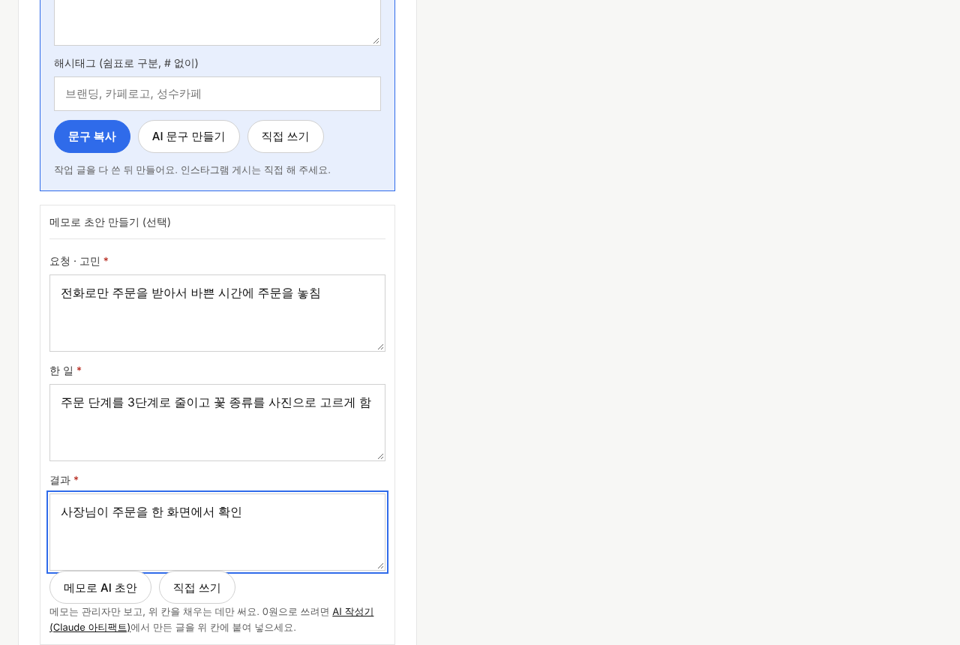
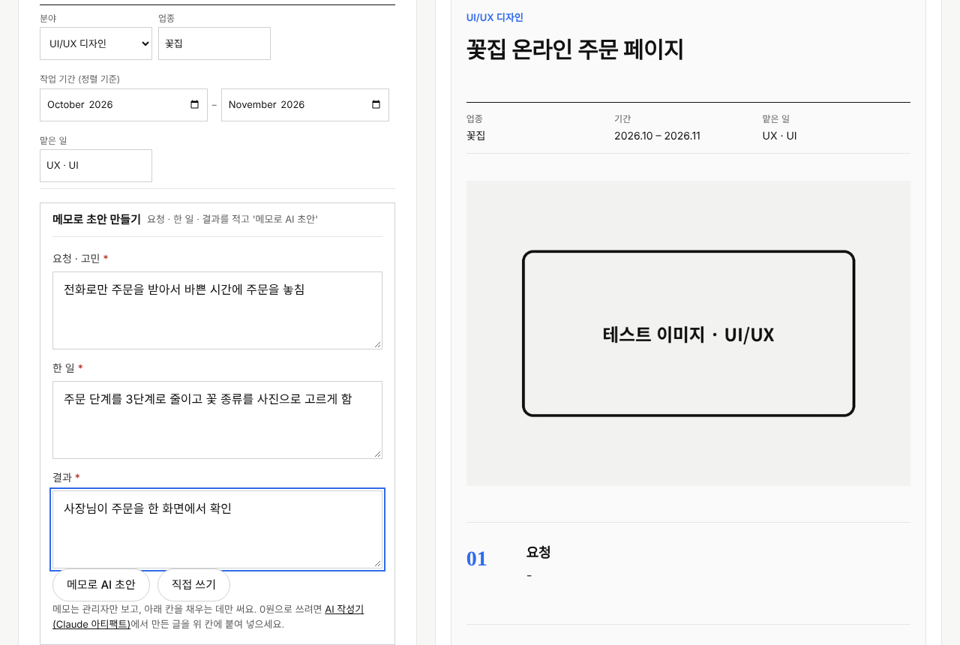
test: 휴리스틱 조치 검증 테스트 4건 추가 (N04 · N05 · N06 · A11) + 전후 스크린샷
N04 모바일 헤더 한 줄(홈) · N05 홈 헤딩 keep-all · N06 English 작업 목록 넘침 없음 · A11 메모 칸 위치.
전체 37/37 통과 (flow 29 · cover 8). 전후 비교는 docs/screenshots/heuristic/.

Claude-Session: https://claude.ai/code/session_01PaPDH15Y8dyF6BwSyfAu1s

diff --git a/tests/site-flow/flow.js b/tests/site-flow/flow.js
@@ -79,6 +79,17 @@ const shot = (p, f, full = false) => p.screenshot({ path: path.join(OUT, f), ful
   await mp.goto(BASE + '/index.html'); await mp.waitForTimeout(800);
   const small = await mp.evaluate(() => [...document.querySelectorAll('button, a.btn, .btn')].filter((e) => { const r = e.getBoundingClientRect(); return r.width && r.height && r.height < 44; }).map((e) => (e.textContent || e.getAttribute('aria-label') || '').trim().slice(0, 14) + ':' + Math.round(e.getBoundingClientRect().height)));
   check('N03', '홈 버튼 높이 44px 이상', small.length === 0, small.join(', '));
+  // 휴리스틱 H2 · H3 (v1.4): 모바일 헤더 한 줄 · 홈 헤딩 어절 줄바꿈
+  const hdr = async () => mp.evaluate(() => { const h = document.querySelector('header'); return { h: Math.round(h.getBoundingClientRect().height), sw: document.documentElement.scrollWidth }; });
+  const hk = await hdr(); const wb = await mp.evaluate(() => getComputedStyle(document.querySelector('h1')).wordBreak);
+  check('N04', '모바일 헤더 한 줄(80px 이하) · 홈', hk.h <= 80 && hk.sw <= 360, `헤더 ${hk.h}px`);
+  check('N05', '홈 헤딩 word-break: keep-all', wb === 'keep-all', wb);
+  await mp.click('.lang-toggle'); await mp.waitForTimeout(400);
+  await mp.goto(BASE + '/works.html'); await mp.waitForTimeout(800);
+  const he = await hdr();
+  check('N06', '모바일 헤더 한 줄 · English 작업 목록 가로 넘침 없음', he.h <= 80 && he.sw <= 360, `헤더 ${he.h}px · scrollWidth ${he.sw}`);
+  await mp.screenshot({ path: path.join(OUT, 'v11-mobile-en.png') });
+  await mp.click('.lang-toggle'); await mp.waitForTimeout(300);
   if (process.env.LIVE) { require('fs').writeFileSync(path.join(OUT, 'results.json'), JSON.stringify(results, null, 1)); await b.close(); return; }
   // ---------- 관리자 ----------
   const pa = await c.newPage(); pa.on('dialog', (d) => d.accept()); const aerr = []; pa.on('pageerror', (e) => aerr.push(e.message));
@@ -90,6 +101,9 @@ const shot = (p, f, full = false) => p.screenshot({ path: path.join(OUT, f), ful
   await shot(pa, 'a02-works.png');
   await pa.goto(BASE + '/admin/work.html'); await pa.waitForTimeout(1200);
   await shot(pa, 'a03a-editor-empty.png');
+  // 휴리스틱 H1 (v1.4): 메모 칸이 작업 정보 바로 아래에 펼쳐져 있음
+  const memo = await pa.evaluate(() => { const d = document.getElementById('memo-box'); const y = (el) => el.getBoundingClientRect().top + scrollY; return { open: d.open, top: Math.round(y(d)), draft: Math.round(y(document.getElementById('draft'))), client: Math.round(y(document.querySelector('.pw-client'))) }; });
+  check('A11', '메모 칸 펼침 · 작업 정보 바로 아래(클라이언트 · 초안보다 위)', memo.open && memo.top < memo.client && memo.top < memo.draft, `메모 ${memo.top}px · 초안 ${memo.draft}px`);
   await pa.evaluate(() => document.querySelectorAll('details.pw-key')[0].open = true);
   await pa.fill('#f-name', '꽃집 온라인 주문 페이지');
   // 빈 메모로 초안
